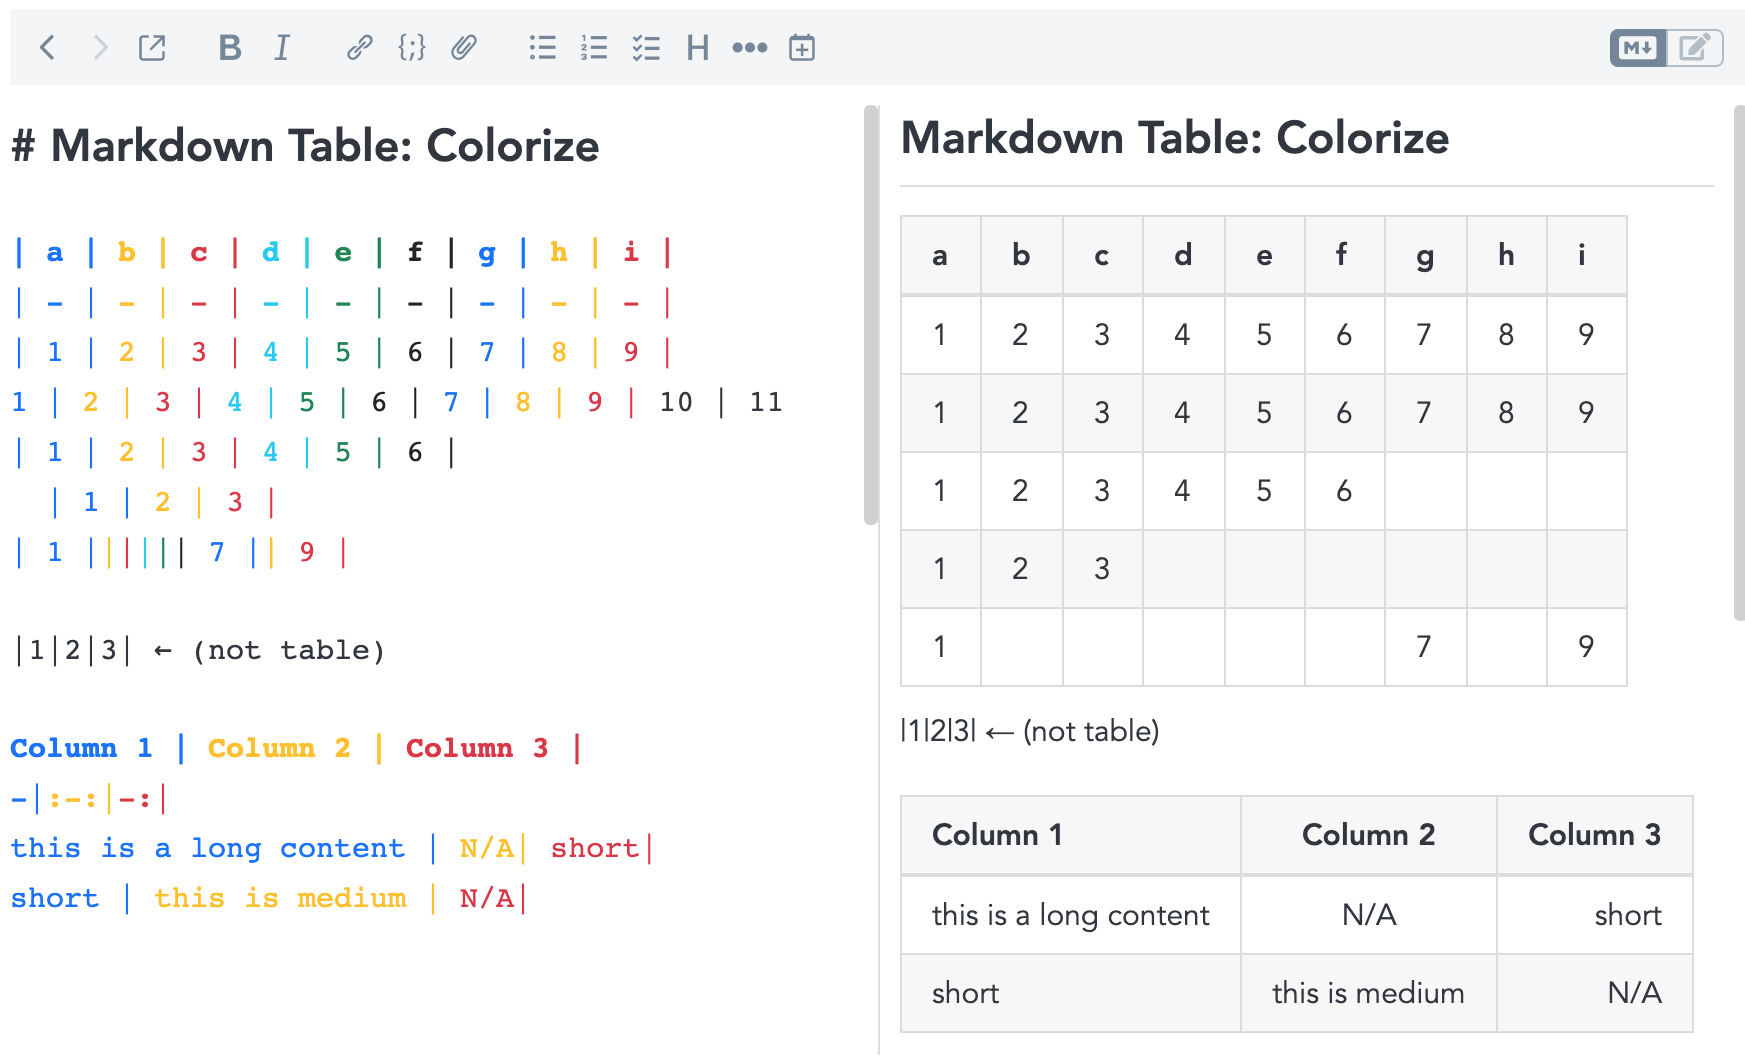
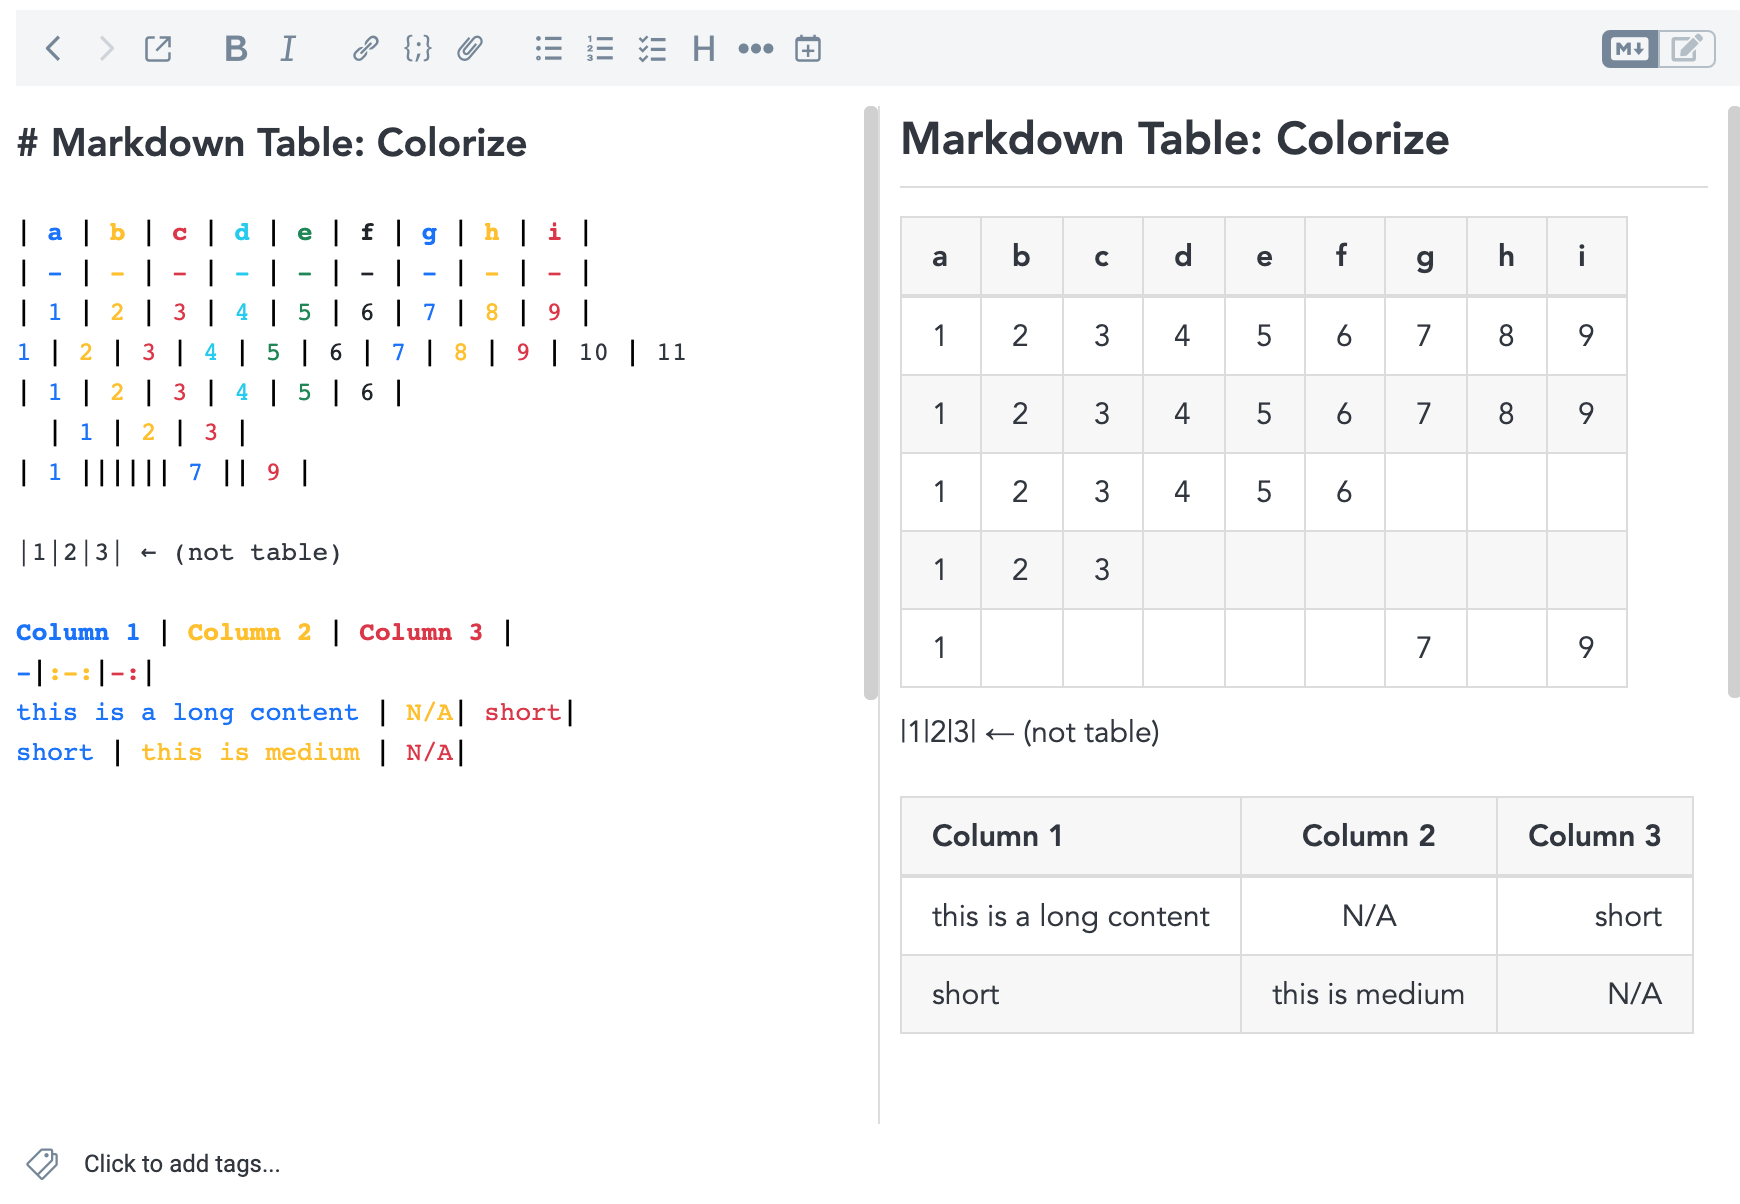
Refactor and Add new themes

diff --git a/themes/nobackground.css b/themes/nobackground.css
@@ -4,39 +4,32 @@
 .cm-tabcolor-header {
 	font-weight: bolder;
 }
-.cm-tabcolor-col1 {
+.cm-tabcolor-col1, .cm-tabcolor-col7 {
 	background-color: transparent !important;
 	color: #0e6efd !important;
 }
-.cm-tabcolor-col2 {
+.cm-tabcolor-col2, .cm-tabcolor-col8 {
 	background-color: transparent !important;
 	color: #ffc108 !important; 
 }
-.cm-tabcolor-col3 {
+.cm-tabcolor-col3, .cm-tabcolor-col9 {
 	background-color: transparent !important;
 	color: #dc3545 !important;
 }
-.cm-tabcolor-col4 {
+.cm-tabcolor-col4, .cm-tabcolor-col10 {
 	background-color: transparent !important;
 	color: #0dcaf0 !important;
 }
-.cm-tabcolor-col5 {
+.cm-tabcolor-col5, .cm-tabcolor-col11 {
 	background-color: transparent !important;
 	color: #198754 !important;
 }
-.cm-tabcolor-col6 {
+.cm-tabcolor-col6, .cm-tabcolor-col12 {
 	background-color: transparent !important;
 	color: #212529 !important;
 }
-.cm-tabcolor-col7 {
-	background-color: transparent !important;
-	color: #0e6efd !important;
-}
-.cm-tabcolor-col8 {
-	background-color: transparent !important;
-	color: #ffc108 !important;
-}
-.cm-tabcolor-col9 {
-	background-color: transparent !important;
-	color: #dc3545 !important;
+
+.cm-tabcolor-pipe {
+	font-weight: bolder;
+	color:  black !important;
 }

diff --git a/themes/colorize.css b/themes/colorize.css
@@ -1,0 +1,39 @@
+.cm-tabcolor-row {
+
+}
+.cm-tabcolor-header {
+    font-weight: bolder;
+}
+.cm-tabcolor-col1, .cm-tabcolor-col7 {
+    background-color: #F07178 !important;
+    color: white !important;
+}
+.cm-tabcolor-col2, .cm-tabcolor-col8 {
+    background-color: #C2E98C !important;
+    color: #212529 !important;
+}
+.cm-tabcolor-col3, .cm-tabcolor-col9 {
+    background-color: #82AAFF !important;
+    color: white !important;
+}
+.cm-tabcolor-col4, .cm-tabcolor-col10 {
+    background-color: #FFCB6C !important;
+    color: #212529 !important;
+}
+.cm-tabcolor-col5, .cm-tabcolor-col11 {
+    background-color: #C792E9 !important;
+    color: white !important;
+}
+.cm-tabcolor-col6, .cm-tabcolor-col12 {
+    background-color: #8ADDFF !important;
+    color: #212529 !important;
+}
+.cm-tabcolor-firstch::before {
+    content: "⇢";
+    color: #F07178 !important;
+    background-color: white !important;
+}
+
+.cm-tabcolor-lastch {
+    border-radius: 0% 50% 50% 0%;
+}

diff --git a/themes/v1.0.1.css b/themes/v1.0.1.css
@@ -1,0 +1,30 @@
+.cm-tabcolor-row {
+
+}
+.cm-tabcolor-header {
+    font-weight: bolder;
+}
+.cm-tabcolor-col1, .cm-tabcolor-col7 {
+    background-color: #0e6efd !important;
+    color: white !important;
+}
+.cm-tabcolor-col2, .cm-tabcolor-col8 {
+    background-color: #ffc108 !important;
+    color: #212529 !important;
+}
+.cm-tabcolor-col3, .cm-tabcolor-col9 {
+    background-color: #dc3545 !important;
+    color: white !important;
+}
+.cm-tabcolor-col4, .cm-tabcolor-col10 {
+    background-color: #0dcaf0 !important;
+    color: #212529 !important;
+}
+.cm-tabcolor-col5, .cm-tabcolor-col11 {
+    background-color: #198754 !important;
+    color: white !important;
+}
+.cm-tabcolor-col6, .cm-tabcolor-col12 {
+    background-color: #f8f9fa !important;
+    color: #212529 !important;
+}
